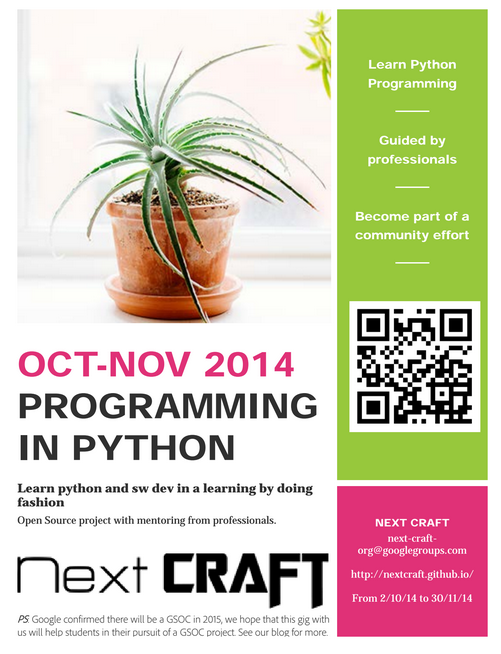
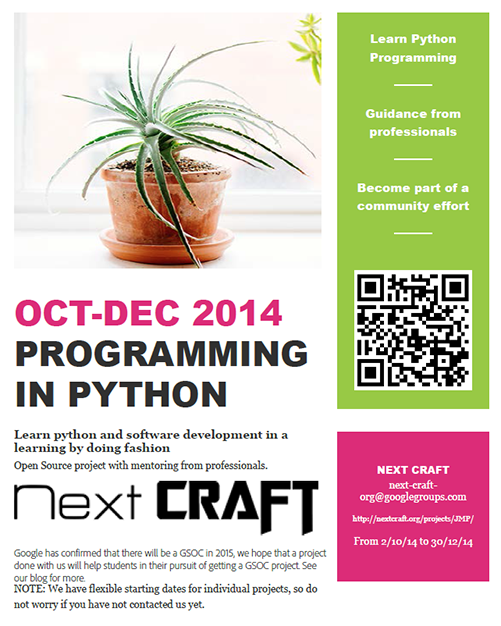
Updates to student program to accommodate
Since many students have different timelines we are keeping a moving
window style timelines for projects. When a student will join in the
program we will have a timeline just for that project.

diff --git a/projects/JMP.md b/projects/JMP.md
@@ -32,7 +32,9 @@ On successful completion of the modules project, we would also be hosting the pr
 Since we have limited mentorship resources at our disposal, only limited students could be supported. The exact number will depend on the number of applications received, but we have kept an expected upper limit of 5. 
 
 ### Run 1 timeline [Extended]
-```Considering the feedback we have received, we are pushing start dates further out of weekends.
+```
+Please note if you are joining in late, for you the day you will submit your application will be considered the date mentioned in 3rd phase. 
+So like wise the rest of deadlines shall be revised. The last day to apply will thus become 20th November.
 ```
 
 | Phase  | Description  | Date |
@@ -44,10 +46,10 @@ Since we have limited mentorship resources at our disposal, only limited student
 | 4  | Application confirmation which will be mentored in JMP's first run.  | 20th October 2014 10:00PM IST  |
 | 5  | Begin work on modules.  | 20th October 2014 10:00PM IST   |
 | 6  | Half-term evaluation deadline.  | 12th November 2014 10:00PM IST  |
-| 7  | Final submission deadline.  | 29 November 2014 10:00PM IST  |
+| 7  | Final submission deadline.  | 30 November 2014 10:00PM IST  |
 
-As part of your student application, please submit an application as detailed on page [application][application].
-To show your interest in the program please fill-in the [student form][form].
+> As part of your student application, please submit an application as detailed on page [application][application].
+> To show your interest in the program please fill-in the [student form][form].
 
 
 We will be updating this page with more information as it becomes available.
